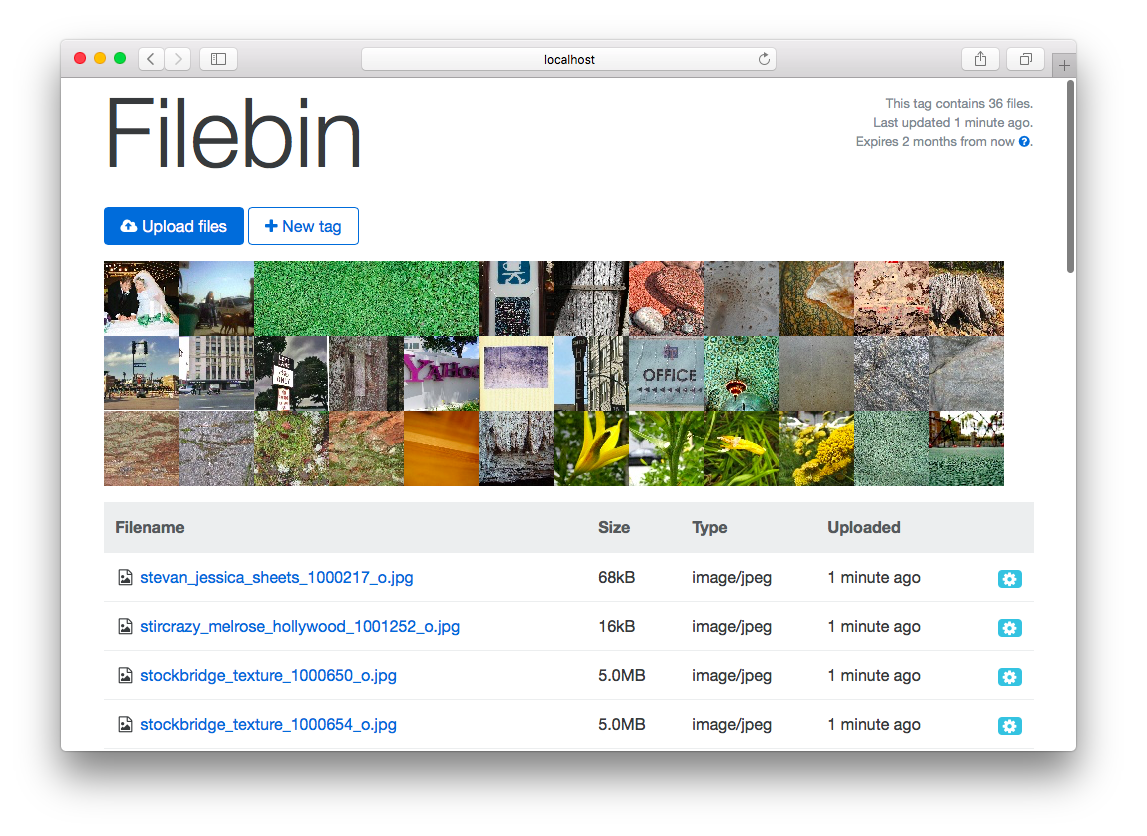
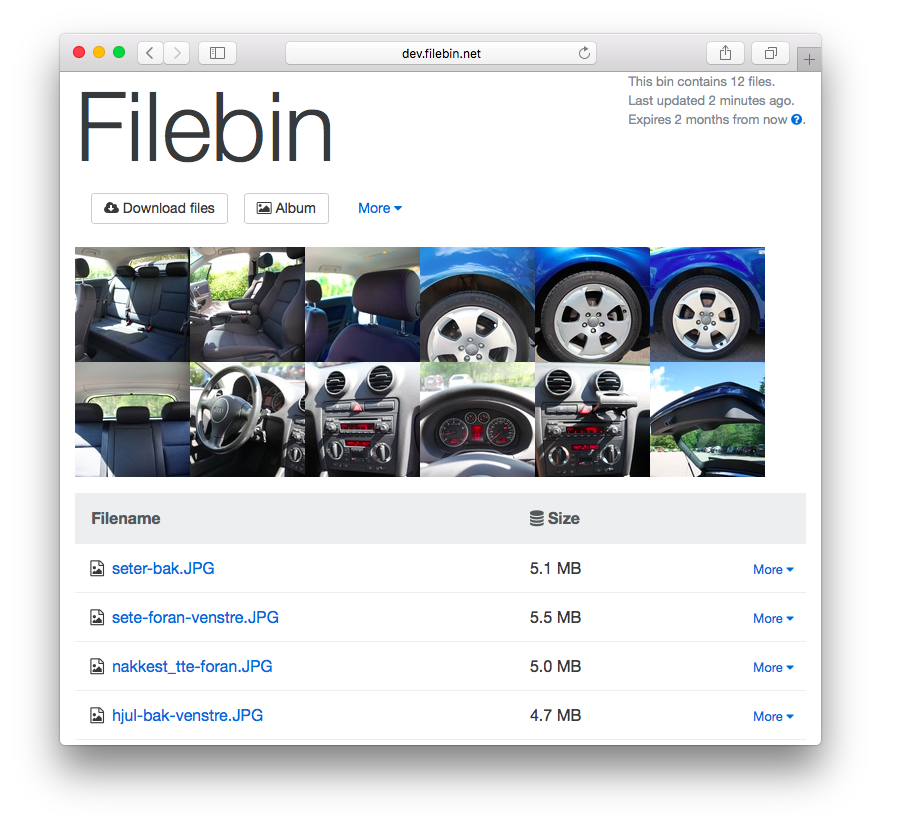
Update screenshots

diff --git a/README.md b/README.md
@@ -166,7 +166,17 @@ The parameter ``--trigger-delete-file <command>`` makes sure ``<command> <bin> <
 
 ## Web interface
 
+### Create new bin / empty bin
+
+![New bin](doc/screenshot-web-interface-new-bin.png)
+
+### File uploads in progress
+
 ![File uploads in progress](doc/screenshot-web-interface-uploading.png)
+
+### View bin with files
+
+![View bin with files](doc/screenshot-web-interface-bin.png)
 
 ## Web service
 
